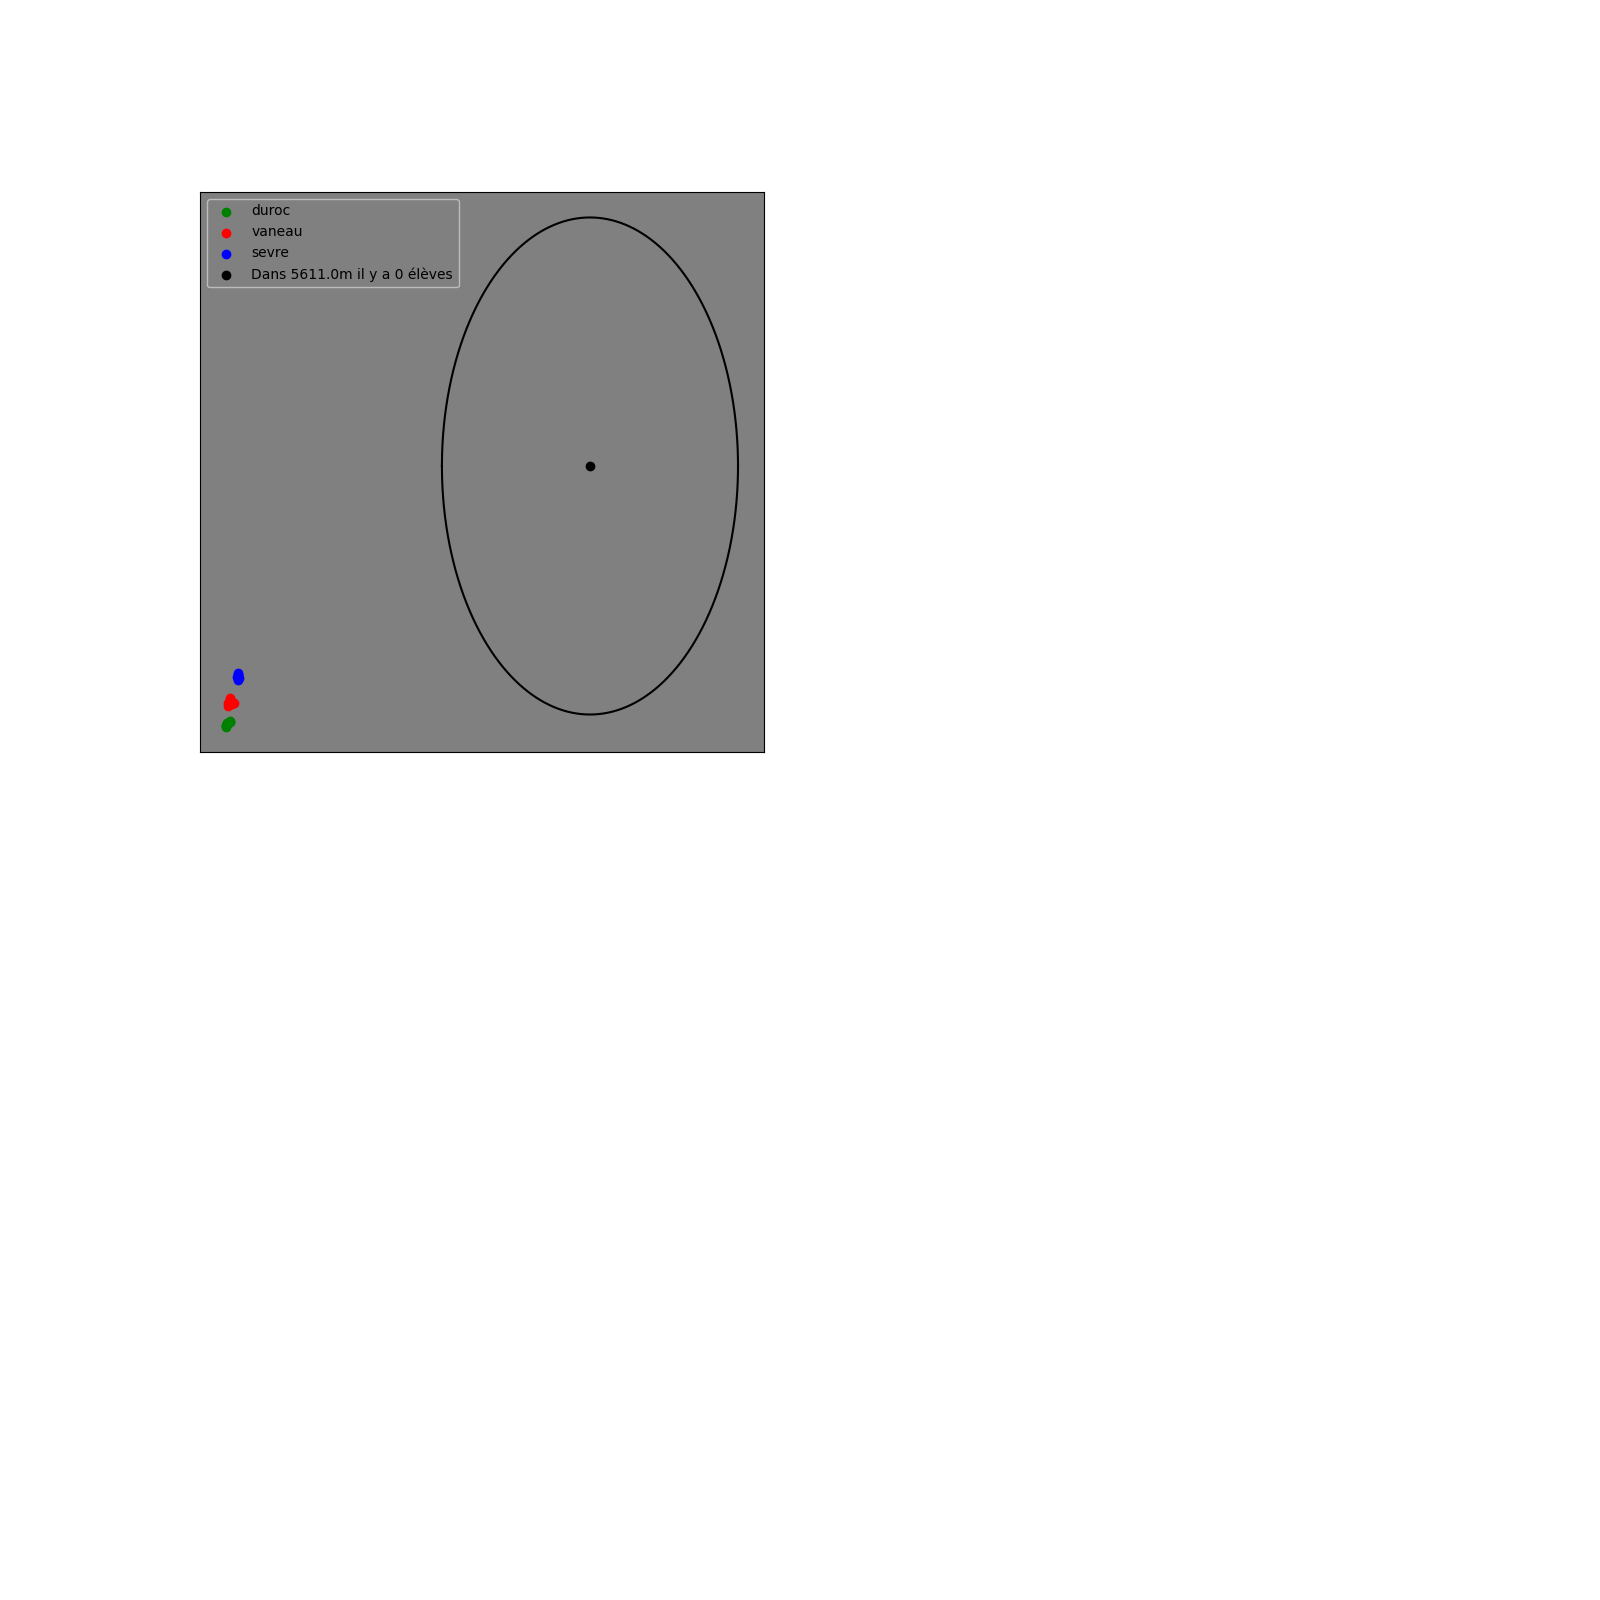
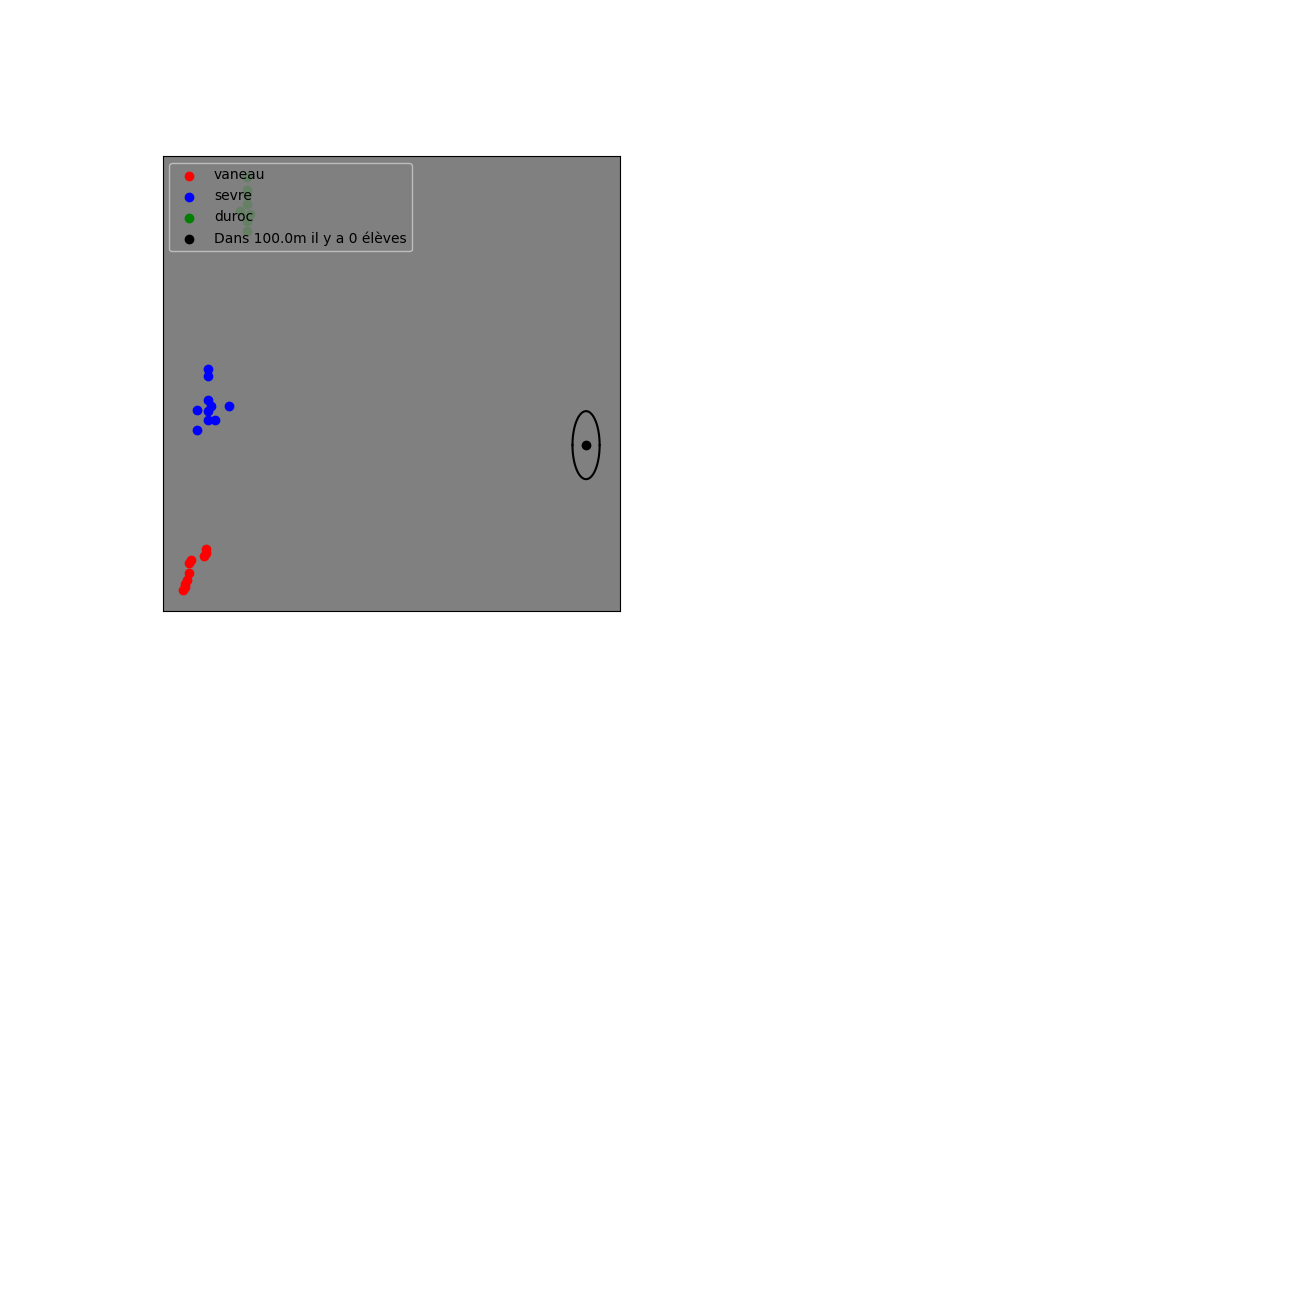
Update

diff --git a/index.html b/index.html
@@ -10,48 +10,41 @@
 <form action="php.php" methode="get">
   <div class="box">
     <ul>
-       <li>
-          <input type="radio" name="page" value='page1' id="active1" checked>
-				  <label for="active1">Page 1 - (Métro) </label>
-		     <div for="active1">
+           <li>
+                <input type="radio" name="page" value='page1' id="active1" checked>
+        <label for="active1">GPS - DIJKSTRA</label>
+             <div for="active1">
             <fieldset>
-            <legend>Page 1</legend>
-            <div id="ligneCalcul" style="clear:both">
-                    Entrez la longitude : <input type="text" name="longitude1" placeholder="lontitude"><br /><br />
-                    Entrez la latitude : <input type="text" name="latitude1" placeholder="latitude"><br /><br />
-                  
-                Votre station :
-                    <select name=Station class=form-control>
 
-                      <option value="DUROC">DUROC</option>
-                      <option value="Vaneau">Vaneau</option>
-                      <option value="Sevres">Sevres</option>
-                      <option value="Mabillon">Mabillon</option>
-                      <option value="Odeon">Odeon</option>
-                      <option value="Cite">Cite</option>
-                      <option value="Chatelet-Les-Halles">Chatelet-Les Halles</option>
-                      <option value="LOUVRE - RIVOLI">LOUVRE - RIVOLI</option>
-                      <option value="Palais-Royal">Palais-Royal</option>
-                      <option value="Tuileries">Tuileries</option>
-                      <option value="Concorde">Concorde</option>
-                      <option value="ASSEMBLEE NATIONALE">ASSEMBLEE NATIONALE</option>
-                      <option value="SOLFERINO- BELLECHASSE">SOLFERINO- BELLECHASSE</option>
-                      <option value="Rue-du-Bac">Rue du Bac</option>
-                      <option value="Varenne">Varenne</option>
-                      <option value="INVALIDE">INVALIDE</option>
-                      <option value="SAINT-FRANCOIS-XAVIER">SAINT-FRANCOIS-XAVIER</option>
-
-                    </select>
-                  </br>
-                  </br>
-              <input type="submit" value="Send">
-              <br>
-              <br>
-              <img src="./img/plot1.png" width="1080" height="720">
-				     </div>
-            </fieldset>
-          </div>
-          </li>
+                     <legend>Insérez vos coordonées :</legend>
+                     Entrez la longitude : <input type="text" name="longitude1" placeholder="longitude"> <br><br>
+                     Entrez la latitude : <input type="text" name="latitude1" placeholder="latitude"> <br><br>
+                     Votre station : 
+           <select name="select_at" id="active1">
+                 <option value ="DUROC">DUROC</option>
+                 <option value ="Vaneau">Vaneau</option>
+               <option value="Sevres">Sevres</option>
+                 <option value="Mabillon">Mabillon</option>
+                 <option value ="Odeon">Odeon</option>
+                 <option value ="Cite">Cite</option>
+               <option value="Chatelet-Les-Halles">Chatelet-Les Halles</option>
+                 <option value="LOUVRE-RIVOLI">LOUVRE - RIVOLI</option>
+                 <option value ="Palais-Royal">Palais-Royal</option>
+                 <option value ="Tuileries">Tuileries</option>
+               <option value="Concorde">Concorde</option>
+                 <option value="ASSEMBLEE-NATIONALE">ASSEMBLEE NATIONALE</option>
+                 <option value ="SOLFERINO-BELLECHASSE">SOLFERINO- BELLECHASSE</option>
+                 <option value ="Rue-du-Bac">Rue du Bac</option>
+               <option value="Varenne">Varenne</option>
+                 <option value="INVALIDE">INVALIDE</option>
+             <option value="SAINT-FRANCOIS-XAVIER">SAINT-FRANCOIS-XAVIER</option>
+             </select>
+             <br> <br>
+             <input type="submit" value="ok">
+             <img src="./img/plot1.png" />
+             </div>
+             </fieldset>
+           </li>
            <!-- Page 2 -->
           <li>
           <input type="radio" name="page" value='page2' id="active2">
@@ -59,7 +52,7 @@
           <div for="active2">
           <fieldset>
           <legend>Page 2</legend>
-            Entrez la longitude : <input type="text" name="longitude2" placeholder="lontitude"> <br><br>
+            Entrez la longitude : <input type="text" name="longitude2" placeholder="longitude"> <br><br>
             Entrez la latitude : <input type="text" name="latitude2" placeholder="latitude"> <br><br>
             Entrez le Rayon : <input type="text" name="rayon1" placeholder="Rayon (en m)"> <br><br>
           <input type="submit" value="Send">
@@ -75,7 +68,7 @@
           <div for="active3">
           <fieldset>
           <legend>Page 3</legend>
-            Entrez la longitude : <input type="text" name="longitude3" placeholder="lontitude"> <br><br>
+            Entrez la longitude : <input type="text" name="longitude3" placeholder="longitude"> <br><br>
             Entrez la latitude : <input type="text" name="latitude3" placeholder="latitude"> <br><br>
             Entrez le Rayon : <input type="text" name="rayon2" placeholder="Rayon (en m)"> <br><br>
           <input type="submit" value="Send">

diff --git a/css/css.css b/css/css.css
@@ -1,13 +1,11 @@
 
 <style>
         *{
-            margin:0;
             padding:0;
         }
         .box{
             width:50vw;
             height:50vh;
-            margin:0 auto;
         }
         ul,li{
             list-style: none;

diff --git a/py/main.py b/py/main.py
@@ -324,6 +324,7 @@ def plot1(longitude, latitude, sap, all_station, sortie):
                       "paleturquoise"]
     # https://matplotlib.org/3.1.0/gallery/color/named_colors.html
     plt.figure(figsize=(13, 11))
+    plt.title(chemin)
     x = long
     y = lat
     nom = station_data
@@ -342,7 +343,7 @@ def plot1(longitude, latitude, sap, all_station, sortie):
     plt.plot(longitude_station, latitude_station, label='Itinéraire', c='white', marker="o", markersize=8)
     plt.legend(loc='upper right')
     plt.savefig("./img/plot1.png")
-    plt.show()
+    # plt.show()
 
 
 def nb_autour(longitude, latitude, d1, rayon):
@@ -374,25 +375,25 @@ def plot2(longitude, latitude, d1, rayon):
     rayon1 = rayon / 100000
     nb = nb_autour(longitude, latitude, d1, rayon)
     v1, v2, v3 = 0, 0, 0
-    fig = plt.figure(figsize=(16, 16))
+    fig = plt.figure(figsize=(13, 13))
     ax1 = fig.add_subplot(221)
     station = list(set([s[2] for s in d1]))
     for data in d1:
         if v1 == 0 and data[2] == station[0]:
             v1 += 1
-            ax1.scatter(data[1][0], data[1][1], c='r', marker='o', label='vaneau')
+            ax1.scatter(data[1][0], data[1][1], c='r', marker='o', label='Vaneau')
         elif v1 != 0 and data[2] == station[0]:
             ax1.scatter(data[1][0], data[1][1], c='r', marker='o')
 
         elif v2 == 0 and data[2] == station[1]:
             v2 += 1
-            ax1.scatter(data[1][0], data[1][1], c='b', marker='o', label='sevre')
+            ax1.scatter(data[1][0], data[1][1], c='b', marker='o', label='Sevre')
         elif v2 != 0 and data[2] == station[1]:
             ax1.scatter(data[1][0], data[1][1], c='b', marker='o')
 
         elif v3 == 0 and data[2] == station[2]:
             v3 += 1
-            ax1.scatter(data[1][0], data[1][1], c='g', marker='o', label='duroc')
+            ax1.scatter(data[1][0], data[1][1], c='g', marker='o', label='Duroc')
         elif v3 != 0 and data[2] == station[2]:
             ax1.scatter(data[1][0], data[1][1], c='g', marker='o')
 
@@ -414,25 +415,25 @@ def plot3(longitude, latitude, d1, rayon):
     rayon1 = rayon / 100000
     nb = nb_autour(longitude, latitude, d1, rayon)
     v1, v2, v3 = 0, 0, 0
-    fig = plt.figure(figsize=(15, 15))
+    fig = plt.figure(figsize=(17, 17))
     ax1 = fig.add_subplot(221)
     station = list(set([s[2] for s in d1]))
     for data in d1:
         if v1 == 0 and data[2] == station[0]:
             v1 += 1
-            ax1.scatter(data[1][0], data[1][1], c='r', marker='o', label='vaneau')
+            ax1.scatter(data[1][0], data[1][1], c='r', marker='o', label='Vaneau')
         elif v1 != 0 and data[2] == station[0]:
             ax1.scatter(data[1][0], data[1][1], c='r', marker='o')
 
         elif v2 == 0 and data[2] == station[1]:
             v2 += 1
-            ax1.scatter(data[1][0], data[1][1], c='b', marker='o', label='sevre')
+            ax1.scatter(data[1][0], data[1][1], c='b', marker='o', label='Sevre')
         elif v2 != 0 and data[2] == station[1]:
             ax1.scatter(data[1][0], data[1][1], c='b', marker='o')
 
         elif v3 == 0 and data[2] == station[2]:
             v3 += 1
-            ax1.scatter(data[1][0], data[1][1], c='g', marker='o', label='duroc')
+            ax1.scatter(data[1][0], data[1][1], c='g', marker='o', label='Duroc')
         elif v3 != 0 and data[2] == station[2]:
             ax1.scatter(data[1][0], data[1][1], c='g', marker='o')
 
